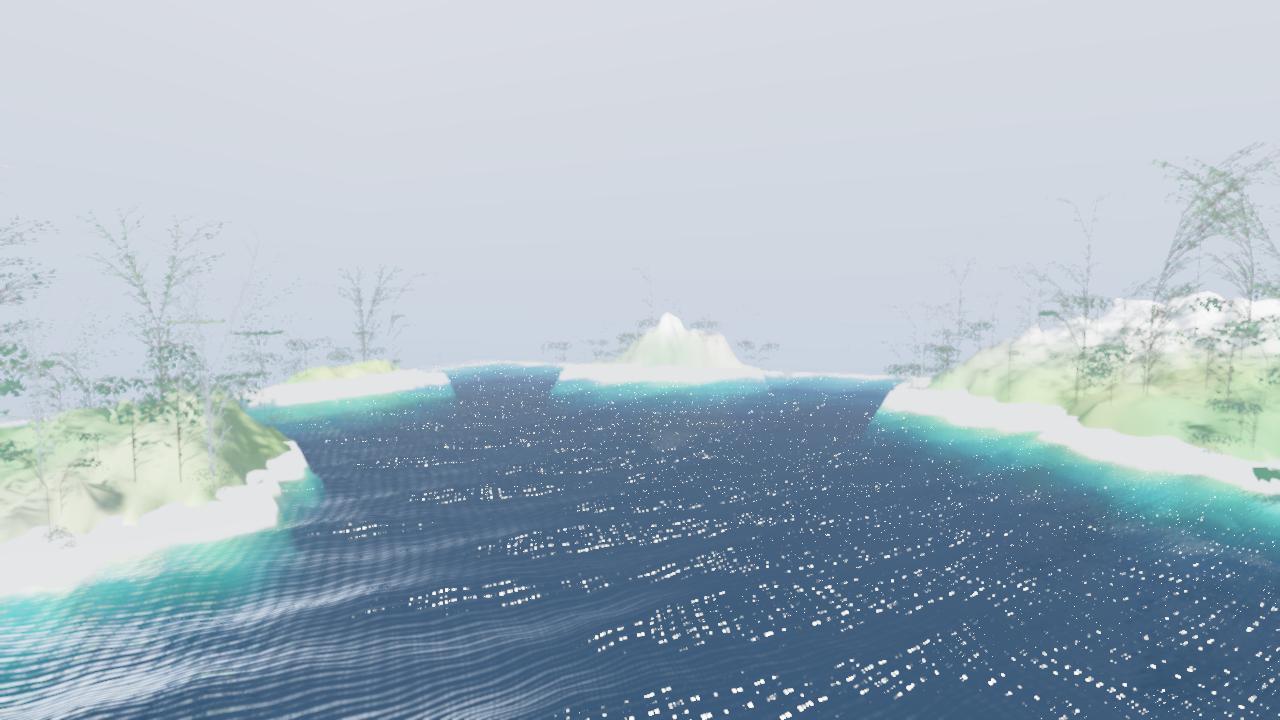
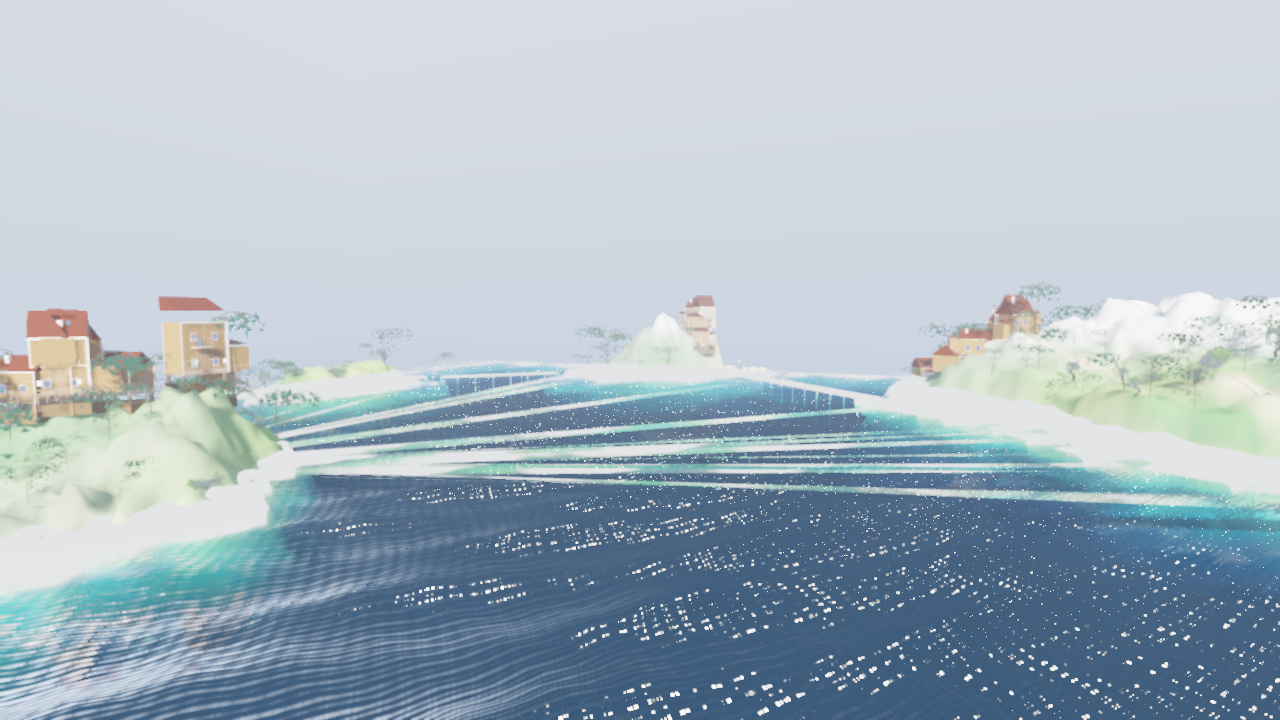
G38 CI fixes: guarantee >=1 house per settlement (fallback placement pass), isolate erosion/scatter test from the road mask, check in CI-rendered g31 landscape/village reference screenshots, link them in the g38 docs
- macOS CI showed a settlement with 0 houses (all placement attempts rejected by
  water/road-corridor on that platform's float rounding) and rocks-empty in the
  erosion test (road mask suppression): house placement now falls back to a second
  pass that still keeps houses off the carriageway, and testErosionAndScatter /
  testLandscapeClimateAndRivers run with settlementCount=0 to isolate their subject
- docs/images/g31_worldgen_{landscape,village}.png replaced by the CI renders of PR
  run 45747105188 (landscape now includes settlements + road network)
- g38 README rows + tutorials link the landscape reference image

Changed region(s): [[0.0, 0.2139, 1.0, 1.0], [0.5, 0.3972, 0.5938, 0.5194], [0.4688, 0.4583, 0.5, 0.4889]]

diff --git a/src/procedural/worldgen.cpp b/src/procedural/worldgen.cpp
@@ -730,15 +730,22 @@ void generateLandscape(const WorldGenParams& p, GeneratedWorld& w) {
                 for (int k = 0; k < p.housesPerSettlement; ++k) {
                     float hx = s.pos.x, hz = s.pos.y;
                     bool ok = false;
-                    for (int t = 0; t < 14 && !ok; ++t) {
-                        const float ang = roadRng.nextf() * 2.f * fuhgl::math::kPi;
-                        const float r = 2.5f + roadRng.nextf() * set.radius;
-                        hx = s.pos.x + std::cos(ang) * r;
-                        hz = s.pos.y + std::sin(ang) * r;
-                        if (std::fabs(hx) > half3 * 0.97f || std::fabs(hz) > half3 * 0.97f) continue;
-                        if (w.heightAt(hx, hz) < w.waterLevelWorld + 0.25f) continue;
-                        if (w.roadDistanceAt(hx, hz) < p.roads.highwayWidth * 0.5f + 2.f) continue;
-                        ok = true;
+                    // strict pass: off the whole road corridor; fallback pass: still off the
+                    // carriageway itself, so every settlement keeps houses on every platform
+                    const float hw = p.roads.highwayWidth * 0.5f;
+                    for (int pass = 0; pass < 2 && !ok; ++pass) {
+                        const int tries = pass == 0 ? 20 : 10;
+                        const float minDist = pass == 0 ? hw + 2.f : hw;
+                        for (int t = 0; t < tries && !ok; ++t) {
+                            const float ang = roadRng.nextf() * 2.f * fuhgl::math::kPi;
+                            const float r = 2.5f + roadRng.nextf() * set.radius;
+                            hx = s.pos.x + std::cos(ang) * r;
+                            hz = s.pos.y + std::sin(ang) * r;
+                            if (std::fabs(hx) > half3 * 0.97f || std::fabs(hz) > half3 * 0.97f) continue;
+                            if (w.heightAt(hx, hz) < w.waterLevelWorld + 0.25f) continue;
+                            if (w.roadDistanceAt(hx, hz) < minDist) continue;
+                            ok = true;
+                        }
                     }
                     if (!ok) continue;
                     const std::uint32_t houseSeed =

diff --git a/tests/test_procedural_worldgen.cpp b/tests/test_procedural_worldgen.cpp
@@ -97,6 +97,7 @@ void testHeightAt() {
 
 void testErosionAndScatter() {
     WorldGenParams p = landscapeParams();
+    p.settlementCount = 0; // isolate the erosion + scatter mechanics from the road mask
     p.erosionDroplets = 1500;
     p.thermalPasses = 3;
     const GeneratedWorld w = generateWorld(p);
@@ -537,8 +538,8 @@ void testLandscapeSettlementsAndRoads() {
                   s.radius + 3.f);
             CHECK_NEAR(b.position.y, w.heightAt(b.position.x, b.position.z), 1e-2f);
             CHECK(b.position.y >= w.waterLevelWorld);
-            // houses keep off the road corridor
-            CHECK(w.roadDistanceAt(b.position.x, b.position.z) > p.roads.highwayWidth * 0.5f);
+            // houses keep off the carriageway (strict placements keep the full corridor)
+            CHECK(w.roadDistanceAt(b.position.x, b.position.z) > p.roads.highwayWidth * 0.5f * 0.9f);
         }
     }
     // vegetation keeps off the roads (trees/rocks only where the road mask is low)

diff --git a/docs/de/tutorials/README.md b/docs/de/tutorials/README.md
@@ -37,7 +37,7 @@ Eine Zeile pro Anforderung, mit Tutorial und Hero-Screenshot (alle Screenshots i
 | G31 | [World-Generator-Hilfsfunktion (Landschaft oder Stadt)](g31_worldgen.md) — `procedural::generateWorld(WorldGenParams)`: ein Aufruf baut eine Landschaft (Spline-gemappte Continentalness/Erosion/Peaks&Valleys, Terracing, Flüsse, Whittaker-Biome, G37-ökogesteuerte Bäume) oder eine WFC-Stadt (prozedurale Häuser, wählbare/nasse Straßen); deterministisch pro Seed, reine CPU | [g31_worldgen_city.png](../../images/g31_worldgen_city.png) |
 | G12 | [Asset-Creator-Qt-Tool + MCP](g12_asset_creator.md) — `tools/asset_creator/` (`fuhglgraphics_asset_creator`): Szenenbaum + Inspektor + Asset-Browser, G3-Viewport, LLM-Chat über MCP; der MCP-Katalog (`mcp/`) macht auch die prozeduralen Funktionen G24–G31, die Deferred-Render-Einstellungen und die G13-Wasser-Parameter zugreifbar; Qt-freier stdio-Server `fuhglgraphics_mcp_server` (`tools/mcp_server/`) | — |
 | G37 | [Ökophysiologischer Vegetations-Generator](g37_vegetation.md) — `procedural::VegetationGenerator`: `EcoEnvironment` (Temperatur/Feuchtigkeit wie die G31-Klimakarten + Wind/Dichte/Saison) → `deriveGrowthForm` (Klima→Geometrie) → `spaceColonization` (Licht-Attraktoren, Self-Pruning) → `applyPipeModel` (Da Vinci R²=Σrᵢ²) → Ast-/Blatt-Meshes mit gebackenen Tints + `VegetationMaterial` (Herbst-Rampe, G33-SSS, Rindenrisse, Moos auf der Wetterseite); sechs Umgebungen nebeneinander im Showcase | [g37_vegetation_wide.png](../../images/g37_vegetation_wide.png) |
-| G38 | [Organisches Straßen-/Wegenetz](g38_roads.md) — `procedural::RoadGenerator` (`procedural/roadgen.hpp`): A*-Least-Cost-Routing mit Physik-Kosten (quadratische Steigung + kritischer Winkel → Serpentinen, Furten vs. Brücken-Markierung, Sumpf/Wald/Fels, Rabatt auf bestehende Wege), Highway-/Landstraßen-/Trampelpfad-Hierarchie, Catmull-Rom-Glättung + Mindestradius, Querschnitts-Extrusion (gewölbte Highway, Reifenspuren-Landstraße, Trampelpfad-Mulde), Hanganschnitt/Damm ins Terrain, Noise-ausgefranzte Straßenmaske + Spurmask, Spline-Props (Meilensteine/Laternen/Wegweiser/Steinmauern); im G31-Landschafts-Loop integriert (Siedlungen → Straßen → Carving → Vegetation weicht aus, `roadDistanceAt` für Kreaturen) | — |
+| G38 | [Organisches Straßen-/Wegenetz](g38_roads.md) — `procedural::RoadGenerator` (`procedural/roadgen.hpp`): A*-Least-Cost-Routing mit Physik-Kosten (quadratische Steigung + kritischer Winkel → Serpentinen, Furten vs. Brücken-Markierung, Sumpf/Wald/Fels, Rabatt auf bestehende Wege), Highway-/Landstraßen-/Trampelpfad-Hierarchie, Catmull-Rom-Glättung + Mindestradius, Querschnitts-Extrusion (gewölbte Highway, Reifenspuren-Landstraße, Trampelpfad-Mulde), Hanganschnitt/Damm ins Terrain, Noise-ausgefranzte Straßenmaske + Spurmask, Spline-Props (Meilensteine/Laternen/Wegweiser/Steinmauern); im G31-Landschafts-Loop integriert (Siedlungen → Straßen → Carving → Vegetation weicht aus, `roadDistanceAt` für Kreaturen) | [g31_worldgen_landscape.png](../../images/g31_worldgen_landscape.png) |
 
 Nächste: **G12 P5 Polish** (3D-Gizmo, Thumbnails) — siehe
 [REQUIREMENTS.md](../../REQUIREMENTS.md); **G11** (Asset-Cache + JSON-Config) ist teilweise

diff --git a/docs/en/tutorials/README.md b/docs/en/tutorials/README.md
@@ -37,7 +37,7 @@ One row per requirement, with the tutorial and its hero screenshot (all screensh
 | G31 | [World generator helper (landscape or city)](g31_worldgen.md) — `procedural::generateWorld(WorldGenParams)`: one call builds a landscape (spline-mapped continentalness/erosion/peaks&valleys relief, terracing, rivers, Whittaker biomes, G37 eco-driven trees) or a WFC city (procedural houses, selectable/wet roads); deterministic per seed, pure CPU | [g31_worldgen_city.png](../../images/g31_worldgen_city.png) |
 | G12 | [Asset creator Qt tool + MCP](g12_asset_creator.md) — `tools/asset_creator/` (`fuhglgraphics_asset_creator`): scene tree + inspector + asset browser, G3 viewport, LLM chat over MCP; the MCP catalog (`mcp/`) also exposes the procedural G24–G31 functions, the deferred-render settings and the G13 water params; Qt-free stdio server `fuhglgraphics_mcp_server` (`tools/mcp_server/`) | — |
 | G37 | [Ecophysiological vegetation generator](g37_vegetation.md) — `procedural::VegetationGenerator`: `EcoEnvironment` (temperature/humidity like the G31 climate maps + wind/density/season) → `deriveGrowthForm` (climate→geometry) → `spaceColonization` (light attractors, self-pruning) → `applyPipeModel` (Da Vinci R²=Σrᵢ²) → branch/leaf meshes with baked tints + `VegetationMaterial` (autumn ramp, G33 SSS, bark cracks, moss on the wet side); six environments side by side in the showcase | [g37_vegetation_wide.png](../../images/g37_vegetation_wide.png) |
-| G38 | [Organic road/path network](g38_roads.md) — `procedural::RoadGenerator` (`procedural/roadgen.hpp`): A* least-cost routing with physics costs (quadratic slope + critical-slope switchbacks, water fords vs. flagged bridges, swamp/forest/rock, existing-road merge discount), highway/country/trail hierarchy, Catmull-Rom smoothing + min curve radius, cross-section extrusion (crowned highway, wheel-rut country road, trodden trail), bench/embankment terrain carving, noise-frayed road mask + rut mask, spline props (milestones/lanterns/signs/guard walls); integrated in the G31 landscape loop (settlements → roads → carving → vegetation avoids roads, `roadDistanceAt` for creatures) | — |
+| G38 | [Organic road/path network](g38_roads.md) — `procedural::RoadGenerator` (`procedural/roadgen.hpp`): A* least-cost routing with physics costs (quadratic slope + critical-slope switchbacks, water fords vs. flagged bridges, swamp/forest/rock, existing-road merge discount), highway/country/trail hierarchy, Catmull-Rom smoothing + min curve radius, cross-section extrusion (crowned highway, wheel-rut country road, trodden trail), bench/embankment terrain carving, noise-frayed road mask + rut mask, spline props (milestones/lanterns/signs/guard walls); integrated in the G31 landscape loop (settlements → roads → carving → vegetation avoids roads, `roadDistanceAt` for creatures) | [g31_worldgen_landscape.png](../../images/g31_worldgen_landscape.png) |
 
 Next: **G12 P5 polish** (3D gizmo, thumbnails) — see
 [REQUIREMENTS.md](../../REQUIREMENTS.md); **G11** (asset cache + JSON config) is partially in place (`io::AssetCache`, `scene::effectsToJson`).

diff --git a/docs/de/tutorials/g38_roads.md b/docs/de/tutorials/g38_roads.md
@@ -108,6 +108,11 @@ const GeneratedWorld w = generateWorld(p);
 w.roadDistanceAt(x, z);       // Distanz zur nächsten Straße — schnelle Kreaturen-Routen
 ```
 
+## Screenshot
+
+Das G31-Landschafts-Render zeigt das Feature komplett (Weiler, verbunden durch das Straßennetz):
+[g31_worldgen_landscape.png](../../images/g31_worldgen_landscape.png) — CI-gerenderte Referenz aus dem PR-Lauf.
+
 ## Tests
 
 `tests/test_procedural_roadgen.cpp`: A*-Umweg durch eine Gebirgslücke, Furt vs. tiefer Fluss,

diff --git a/docs/en/tutorials/g38_roads.md b/docs/en/tutorials/g38_roads.md
@@ -104,6 +104,12 @@ const GeneratedWorld w = generateWorld(p);
 w.roadDistanceAt(x, z);       // distance to the nearest road — creature fast routes
 ```
 
+## Screenshot
+
+The G31 landscape render now shows the feature end-to-end (hamlets connected by the road
+network): [g31_worldgen_landscape.png](../../images/g31_worldgen_landscape.png) — CI-rendered
+reference from the PR run.
+
 ## Tests
 
 `tests/test_procedural_roadgen.cpp`: A\* slope detour through a ridge gap, ford vs. deep
